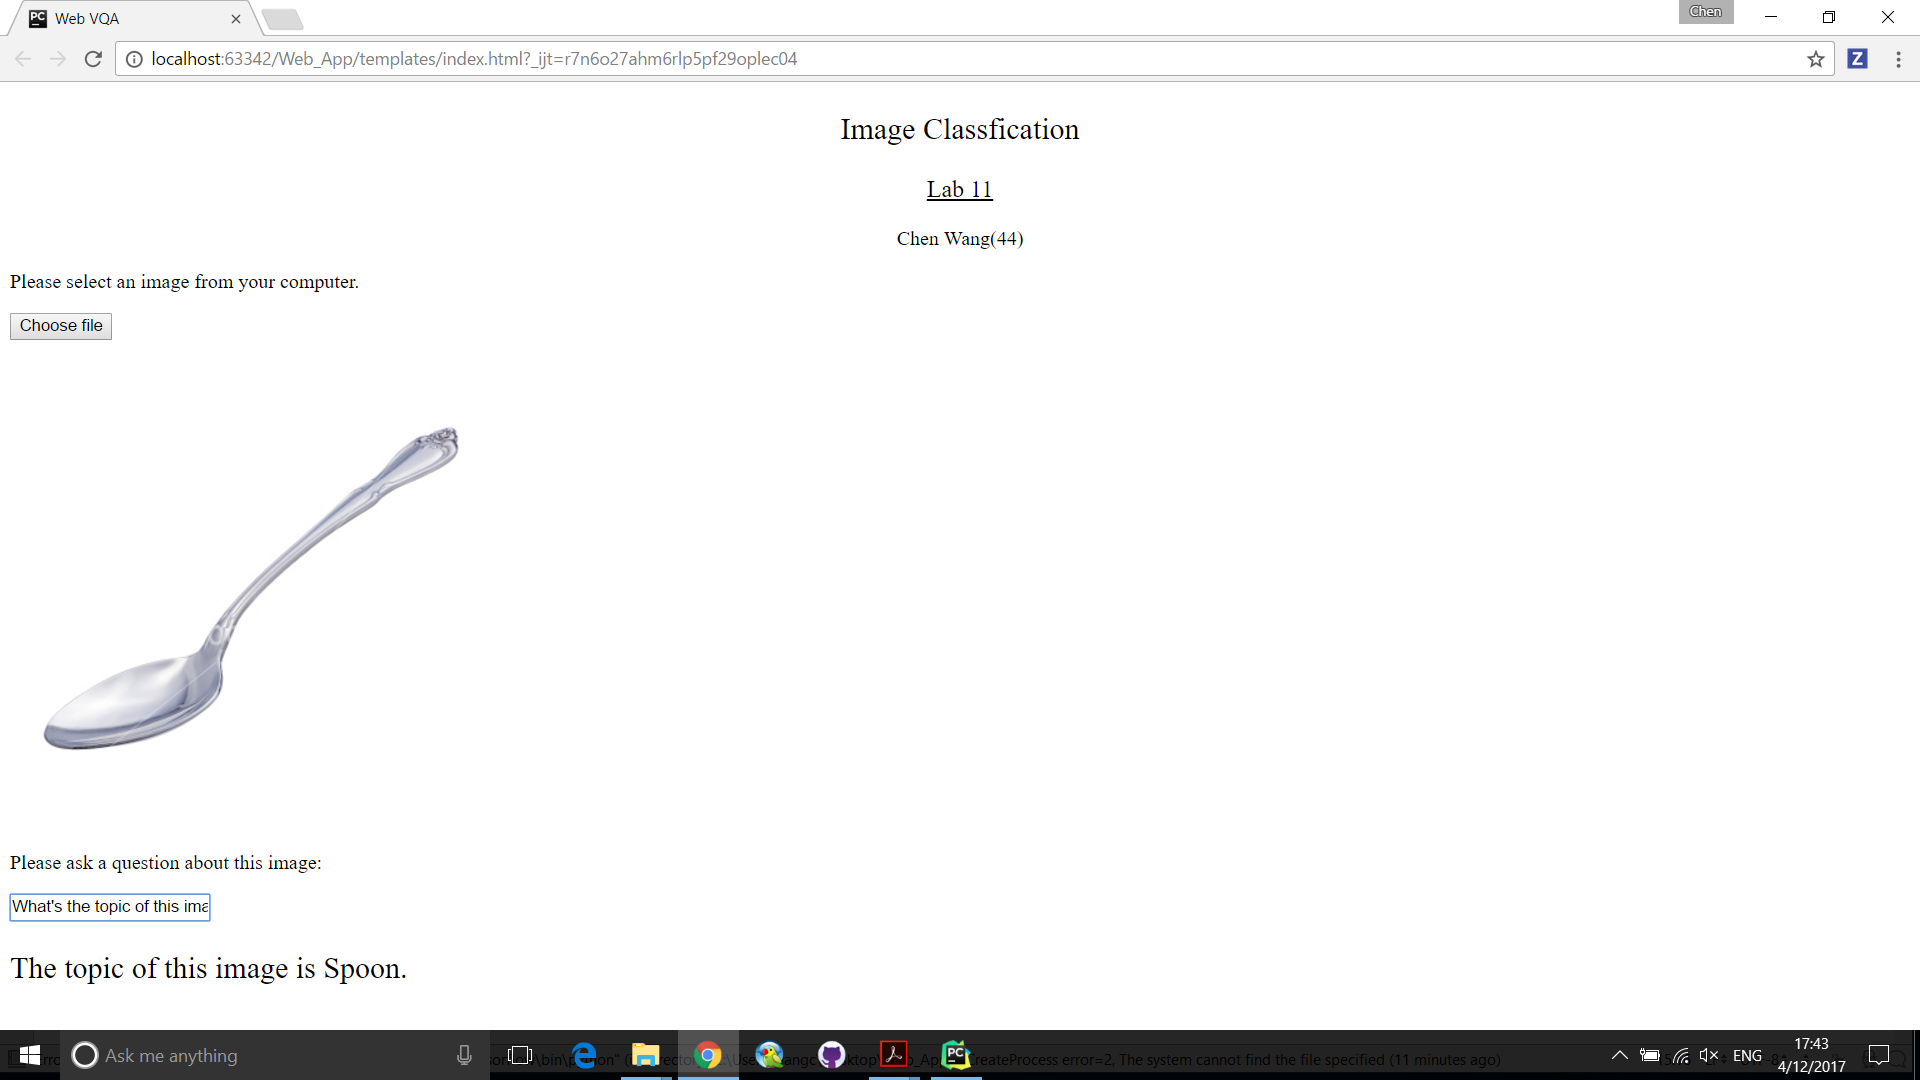
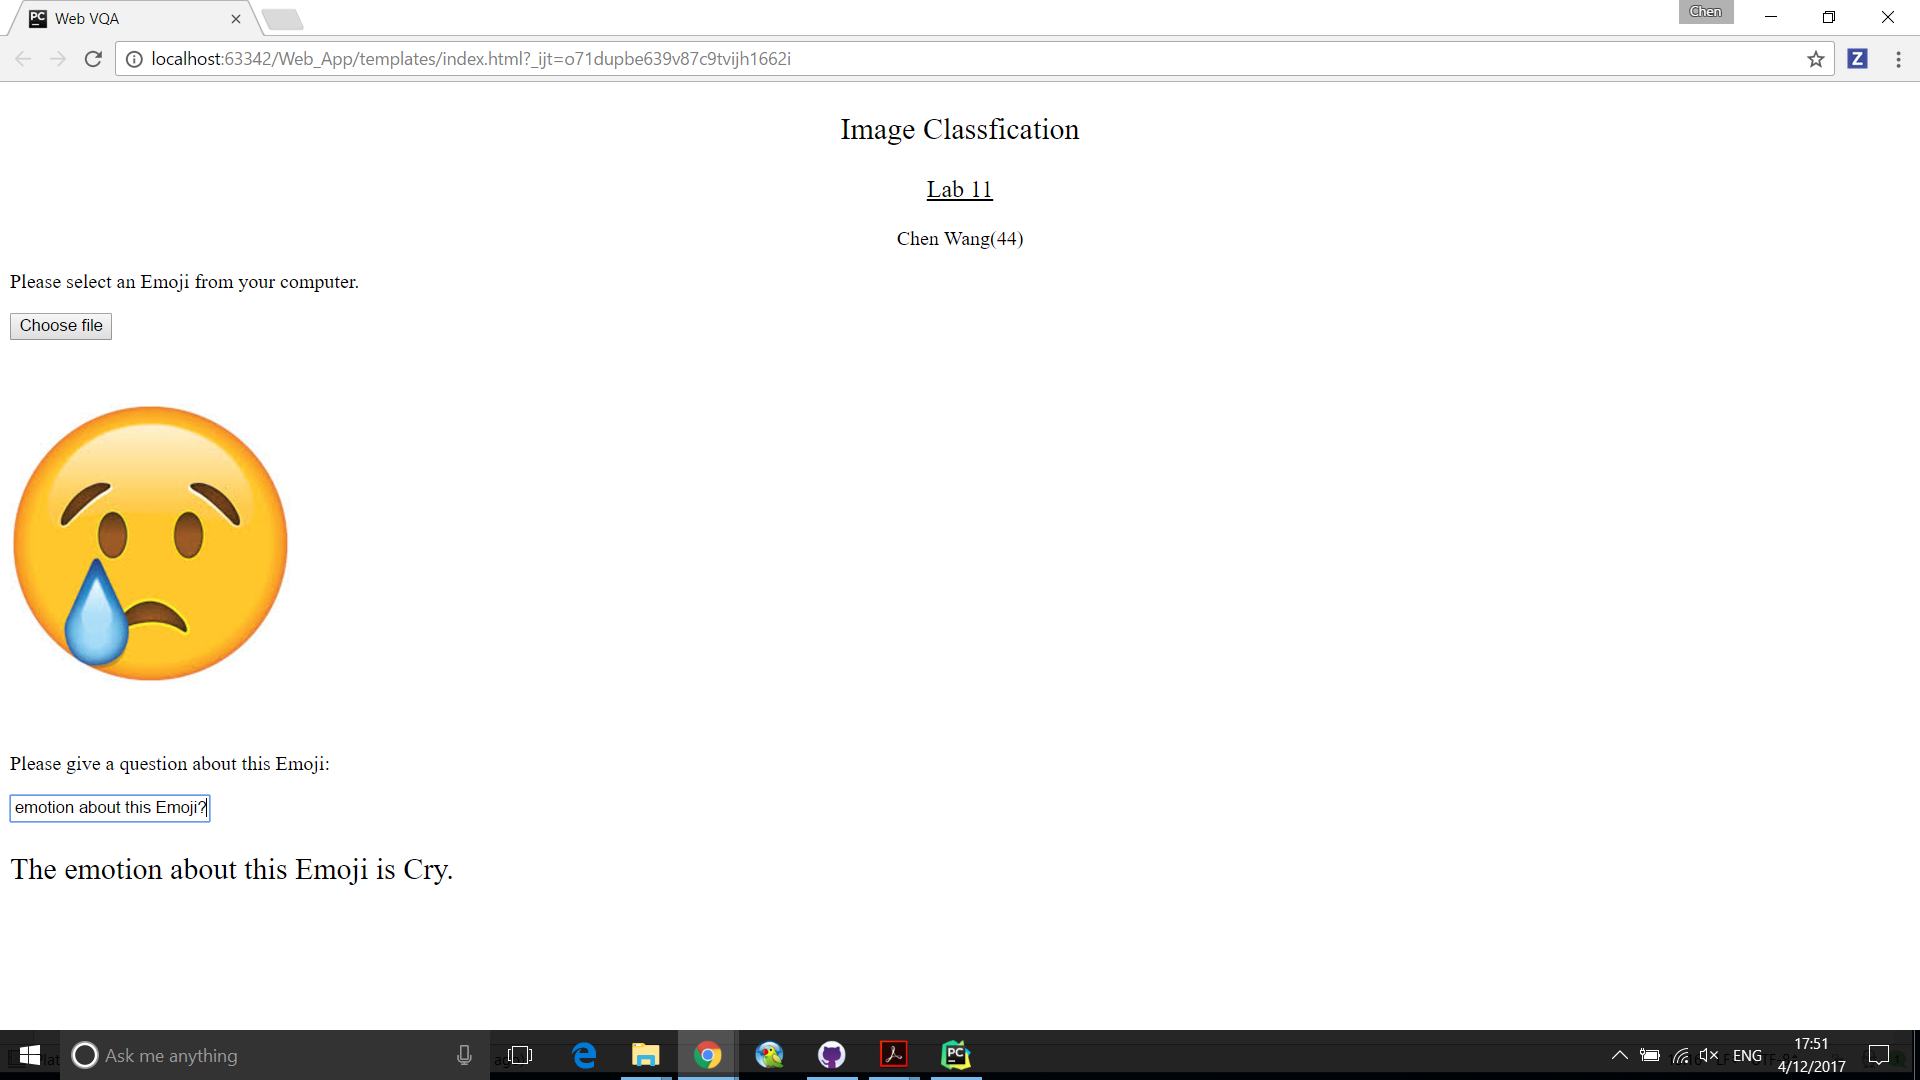
Lab 11 Update

diff --git a/Lab_11/Source/Web_App/templates/index.html b/Lab_11/Source/Web_App/templates/index.html
@@ -8,14 +8,14 @@
     <p align="center" style='font-size: 1.5em;color: Black;'>Image Classfication</p>
     <p align="center" style='font-size: 1.2em;color: Black;'><u>Lab 11</u></p>
     <p align="center">Chen Wang(44)</p>
-    <p  class = 'left_text'>Please select an image from your computer.</p>
+    <p  class = 'left_text'>Please select an Emoji from your computer.</p>
     <button id = 'choose'>Choose file</button>
     <p><br></p>
     <img src='1.jpg'>
     <p><br></p>
-    <p class = 'left_text'>Please give a question about this image:</p>
+    <p class = 'left_text'>Please give a question about this Emoji:</p>
     <p class = 'left_text'><input type = 'text' placeholder = 'Question'></p>
-    <p style='font-size: 1.5em;color: Black;' class = 'left_text'>The topic of this image is Spoon.</p>
+    <p style='font-size: 1.5em;color: Black;' class = 'left_text'>The emotion about this Emoji is Cry.</p>
 
 </body>
 </html>
